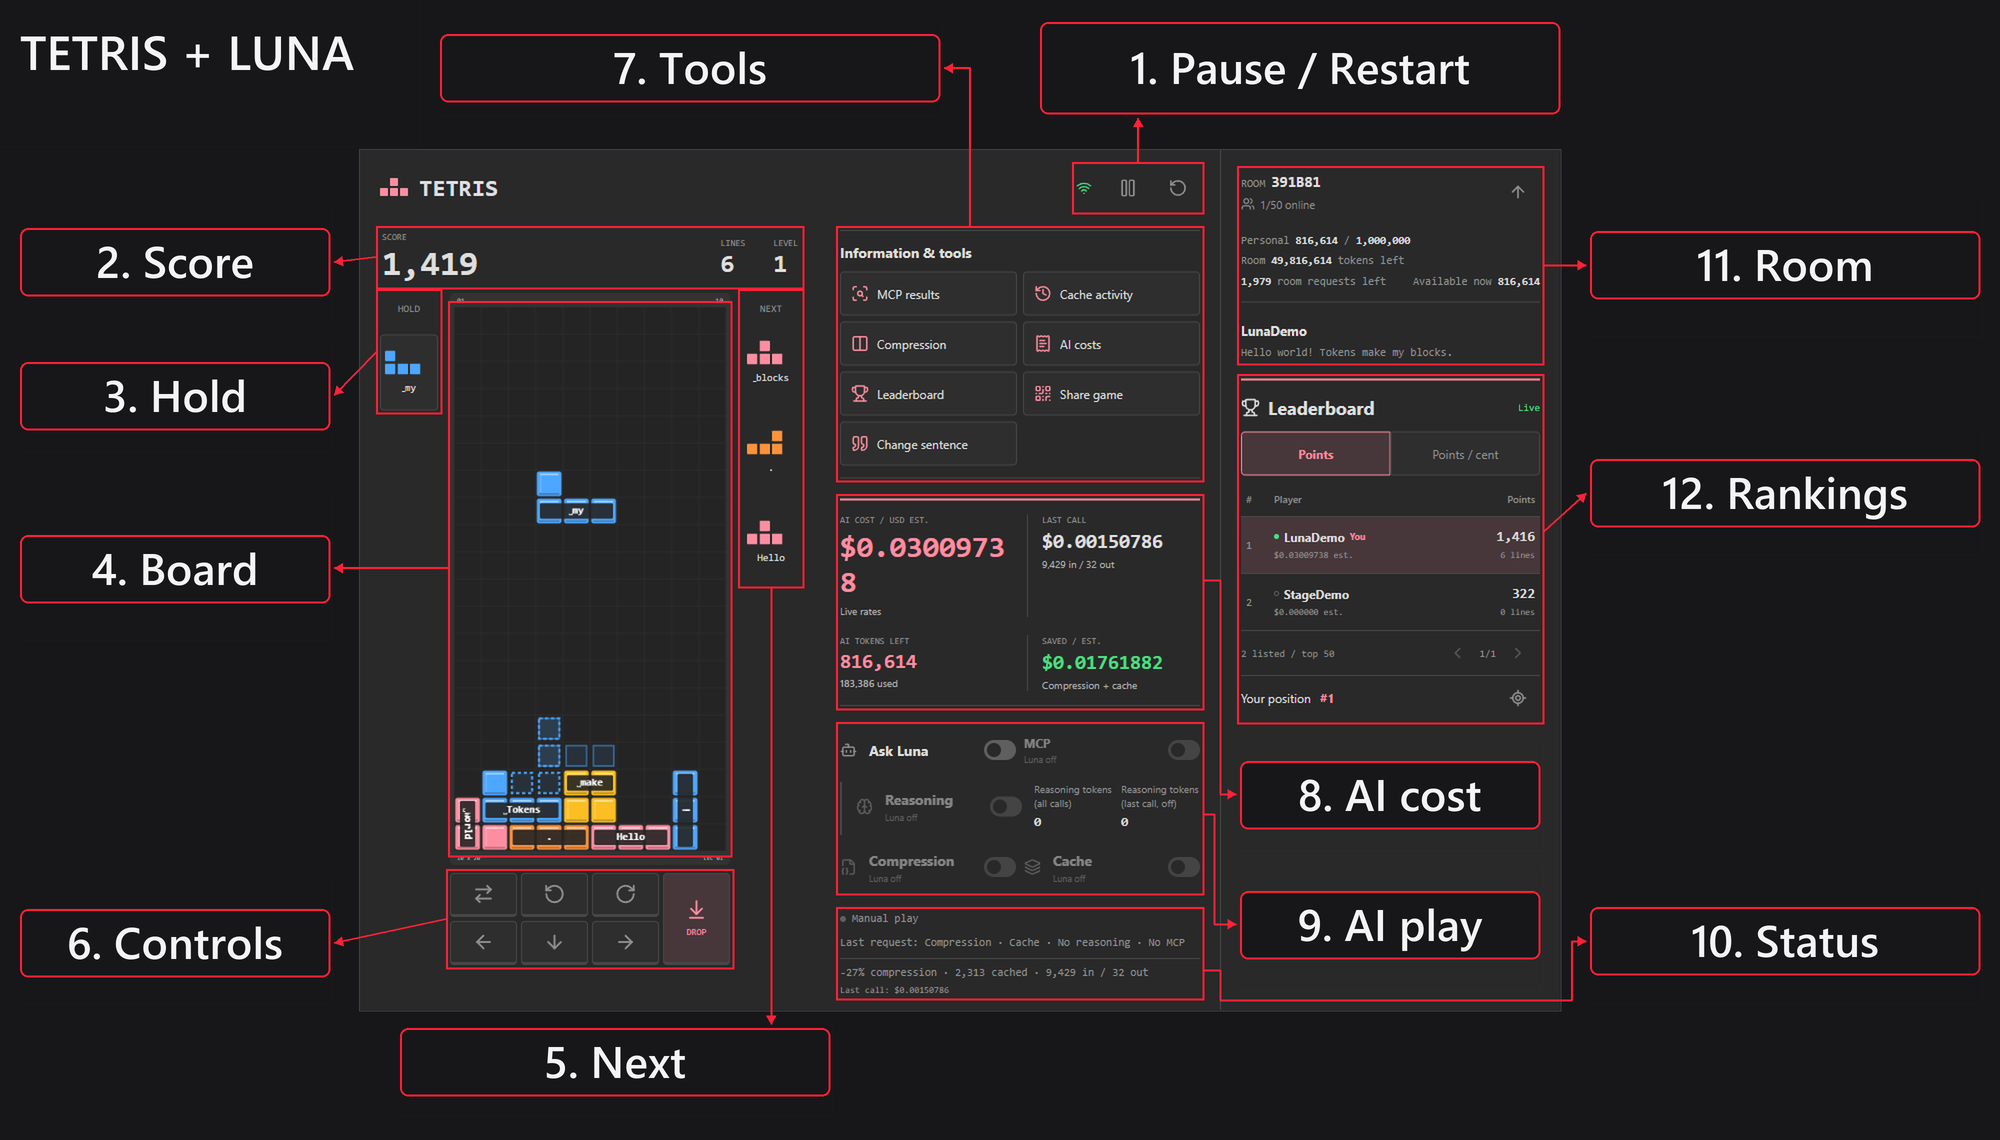
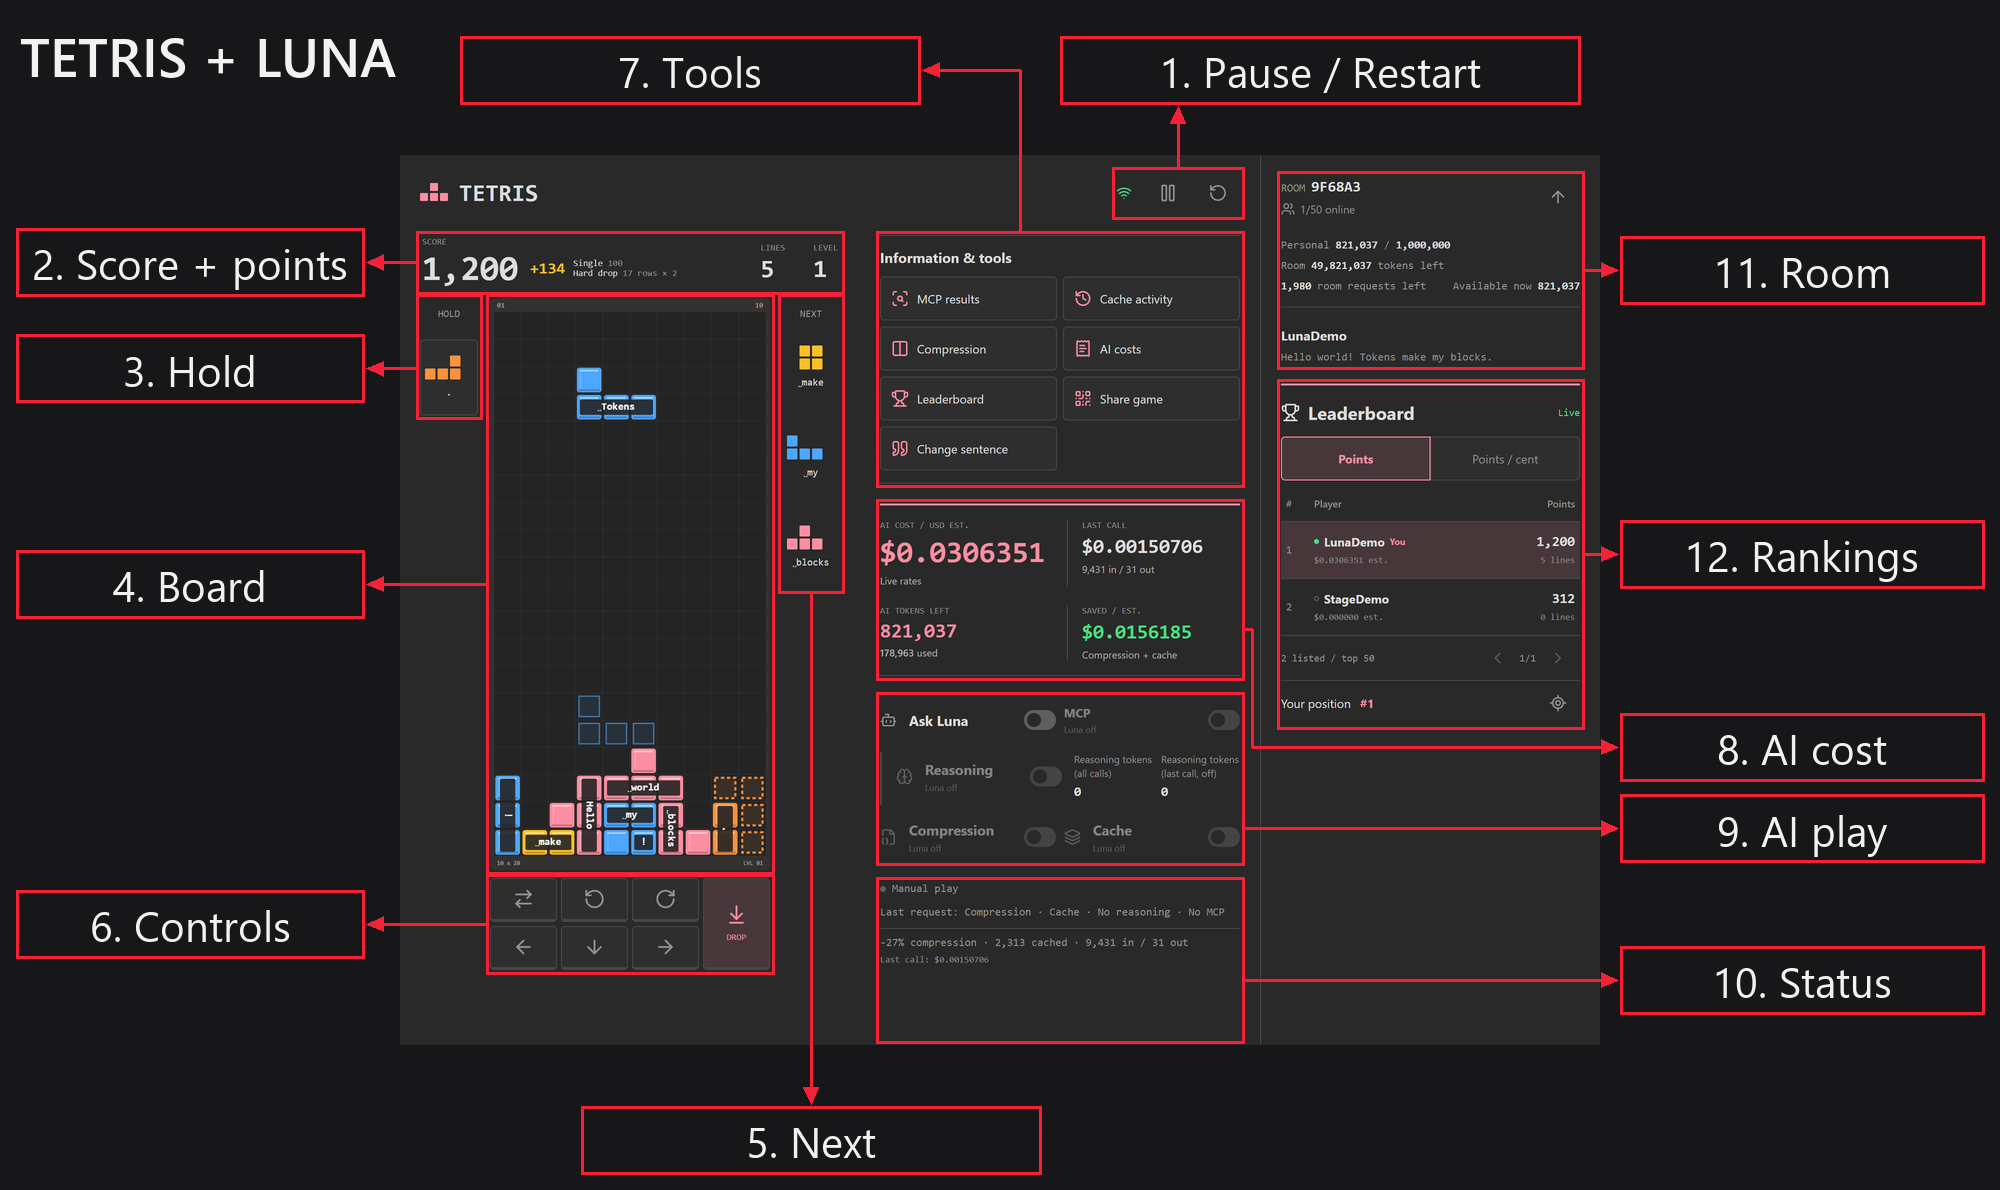
feat: show how each move's points were earned next to the score
The engine records a per-move breakdown (line clears, back-to-back, combo, perfect clear, hard and soft drops) whose parts sum to the points added. The score panel shows +points and the breakdown; README screenshots updated.

diff --git a/shared/game.ts b/shared/game.ts
@@ -35,18 +35,40 @@ export interface ClearEvent {
   frame: number;
   rows: number[];
 }
+// One scored step of a move, e.g. { label: 'Single', detail: '100 × level 2', points: 200 }.
+export interface ScorePart { label: string; detail: string; points: number }
+// Points added since the previous piece locked; parts always sum to points.
+export interface MoveScore { id: number; frame: number; points: number; parts: ScorePart[] }
+
+const rowCount = (rows: number) => `${rows} ${rows === 1 ? 'row' : 'rows'}`;
+
+function clearName(lines: number, spin: Spin) {
+  const size = ['', 'single', 'double', 'triple', 'Tetris'][lines] ?? '';
+  if (spin === 'none') return size.charAt(0).toUpperCase() + size.slice(1);
+  return [spin === 'full' ? 'T-spin' : 'T-spin mini', size].filter(Boolean).join(' ');
+}
 
 export function scoreClear(lines: number, spin: Spin, level: number, previousCombo: number, previousBackToBack: boolean, perfect: boolean) {
   const difficult = lines === 4 || (spin !== 'none' && lines > 0);
   const combo = lines > 0 ? previousCombo + 1 : -1;
   const bases = spin === 'full' ? [400, 800, 1200, 1600] : spin === 'mini' ? [100, 200, 400] : [0, 100, 300, 500, 800];
-  let points = (bases[lines] ?? 0) * level;
+  const base = (bases[lines] ?? 0) * level;
+  let points = base;
   if (difficult && previousBackToBack) points *= 1.5;
-  points += Math.max(0, combo) * 50 * level;
-  if (perfect && lines > 0) points += (lines === 4 && previousBackToBack ? 3200 : [0, 800, 1200, 1800, 2000][lines]) * level;
+  const comboPoints = Math.max(0, combo) * 50 * level;
+  points += comboPoints;
+  const perfectBase = perfect && lines > 0 ? (lines === 4 && previousBackToBack ? 3200 : [0, 800, 1200, 1800, 2000][lines]) : 0;
+  points += perfectBase * level;
   const backToBack = lines === 0 ? previousBackToBack : difficult;
   const label = perfect && lines > 0 ? 'PERFECT CLEAR' : spin === 'full' ? 'T-SPIN' : spin === 'mini' ? 'T-SPIN MINI' : ['', 'SINGLE', 'DOUBLE', 'TRIPLE', 'TETRIS'][lines];
-  return { points, combo, backToBack, label };
+  const parts: ScorePart[] = [];
+  // The level multiplier is only shown when it changes the result.
+  const times = (value: number) => level > 1 ? `${value} × level ${level}` : `${value}`;
+  if (base > 0) parts.push({ label: clearName(lines, spin), detail: times(bases[lines]), points: base });
+  if (base > 0 && difficult && previousBackToBack) parts.push({ label: 'Back-to-back', detail: `50% of ${base}`, points: base / 2 });
+  if (comboPoints > 0) parts.push({ label: `Combo ${combo}`, detail: `${combo} × ${times(50)}`, points: comboPoints });
+  if (perfectBase > 0) parts.push({ label: 'Perfect clear', detail: times(perfectBase), points: perfectBase * level });
+  return { points, combo, backToBack, label, parts };
 }
 
 export class Game {
@@ -75,6 +97,10 @@ export class Game {
   gravity = 0;
   lastRotation: number | null = null;
   lastClear: ClearEvent | null = null;
+  lastMove: MoveScore | null = null;
+  moves = 0;
+  softDropRows = 0;
+  hardDropRows = 0;
   events: InputEvent[] = [];
 
   constructor(seed: string, tokens: PieceToken[] = []) {
@@ -119,6 +145,7 @@ export class Game {
       const landed = ghostPiece(this.well, this.active);
       const distance = landed.y - this.active.y;
       this.score += distance * 2;
+      this.hardDropRows += distance;
       if (distance > 0) this.lastRotation = null;
       this.active = landed;
       this.finishPiece();
@@ -134,7 +161,7 @@ export class Game {
       this.lastRotation = kicks.findIndex(([horizontal, vertical]) => moved.x - this.active.x === horizontal && moved.y - this.active.y === vertical);
     } else {
       this.lastRotation = null;
-      if (action === 'softDrop') this.score += 1;
+      if (action === 'softDrop') { this.score += 1; this.softDropRows += 1; }
     }
     this.active = moved;
     if (action !== 'softDrop') this.lock.onManipulate();
@@ -157,22 +184,34 @@ export class Game {
     return (fronts.every(index => corners[index]) || this.lastRotation === 4) ? 'full' : 'mini';
   }
 
+  // Records what the piece that just locked added to the score, including drop points earned before a hold.
+  recordMove(clear: ScorePart[]) {
+    const parts = [...clear];
+    if (this.hardDropRows > 0) parts.push({ label: 'Hard drop', detail: `${rowCount(this.hardDropRows)} × 2`, points: this.hardDropRows * 2 });
+    if (this.softDropRows > 0) parts.push({ label: 'Soft drop', detail: `${rowCount(this.softDropRows)} × 1`, points: this.softDropRows });
+    this.moves += 1;
+    this.lastMove = { id: this.moves, frame: this.frame, points: parts.reduce((sum, part) => sum + part.points, 0), parts };
+    this.hardDropRows = 0;
+    this.softDropRows = 0;
+  }
+
   finishPiece() {
-    if (!canPlace(this.well, this.active)) { this.status = 'over'; return; }
+    if (!canPlace(this.well, this.active)) { this.status = 'over'; this.recordMove([]); return; }
     const spin = this.detectSpin();
     const cells = pieceCells(this.active);
     lockPiece(this.well, this.active);
     if (this.tokens.length) for (const cell of cells) this.tokenWell.set(cell.x, cell.y, this.activeTokenIndex);
     this.pieces += 1;
-    if (cells.every(cell => cell.y < HIDDEN_ROWS)) { this.status = 'over'; return; }
+    if (cells.every(cell => cell.y < HIDDEN_ROWS)) { this.status = 'over'; this.recordMove([]); return; }
     const rows = fullRows(this.well);
     clearRows(this.well, rows);
     clearRows(this.tokenWell, rows);
-    const result = scoreClear(rows.length, rows.length === 3 && spin === 'mini' ? 'full' : spin, this.level, this.combo, this.backToBack, this.well.toArray().every(cell => cell === null));
+    const { parts, ...result } = scoreClear(rows.length, rows.length === 3 && spin === 'mini' ? 'full' : spin, this.level, this.combo, this.backToBack, this.well.toArray().every(cell => cell === null));
     this.score += result.points;
     this.combo = result.combo;
     this.backToBack = result.backToBack;
     if (result.points > 0) this.lastClear = { ...result, lines: rows.length, frame: this.frame, rows };
+    this.recordMove(parts);
     this.lines += rows.length;
     this.level = 1 + Math.floor(this.lines / 10);
     this.active = this.takePiece();
@@ -224,7 +263,7 @@ export class Game {
       nextTokens: this.queue.peek().map((_piece, index) => this.tokenAt(this.tokensTaken + index)),
       piece: this.piece, pieceId: this.pieceId, hold: this.hold, canHold: !this.usedHold,
       next: this.queue.peek(), score: this.score, lines: this.lines, level: this.level,
-      pieces: this.pieces, status: this.status, frame: this.frame, lastClear: this.lastClear,
+      pieces: this.pieces, status: this.status, frame: this.frame, lastClear: this.lastClear, lastMove: this.lastMove,
       lockRemaining: this.lock.snapshot.remainingFrames,
     };
   }

diff --git a/tests/game.test.ts b/tests/game.test.ts
@@ -1,5 +1,6 @@
 import test from 'node:test';
 import assert from 'node:assert/strict';
+import seedrandom from 'seedrandom';
 import { canPlace, ghostPiece, rotateWithKicks, kicksFor, spawnTetromino } from 'miaoda-game-fallblock-core';
 import { Game, HEIGHT, WIDTH, placementsFor, refreshPlacement, scoreClear, tokenLabel, tokenShape } from '../shared/game.ts';
 import type { Cell } from '../shared/game.ts';
@@ -133,6 +134,77 @@ test('four full rows clear rigidly and score a Tetris plus perfect clear and dro
   assert.equal(game.lines, 4);
   assert.equal(game.score, 800 + 2000 + distance * 2);
   assert.ok(game.well.toArray().every(cell => cell === null));
+  assert.deepEqual(game.lastMove, {
+    id: 1, frame: 0, points: game.score,
+    parts: [
+      { label: 'Tetris', detail: '800', points: 800 },
+      { label: 'Perfect clear', detail: '2000', points: 2000 },
+      { label: 'Hard drop', detail: `${distance} rows × 2`, points: distance * 2 },
+    ],
+  });
+});
+
+test('score parts always add up to the clear points', () => {
+  for (const spin of ['none', 'mini', 'full'] as const) {
+    for (let lines = 0; lines <= (spin === 'none' ? 4 : spin === 'mini' ? 2 : 3); lines += 1) {
+      for (const [level, combo, backToBack, perfect] of [[1, -1, false, false], [3, 2, true, false], [2, 0, true, true], [5, 4, false, true]] as const) {
+        const result = scoreClear(lines, spin, level, combo, backToBack, perfect);
+        assert.equal(result.parts.reduce((sum, part) => sum + part.points, 0), result.points, `${spin} ${lines} lines at level ${level}`);
+      }
+    }
+  }
+  assert.deepEqual(scoreClear(4, 'none', 2, 1, true, false).parts, [
+    { label: 'Tetris', detail: '800 × level 2', points: 1600 },
+    { label: 'Back-to-back', detail: '50% of 1600', points: 800 },
+    { label: 'Combo 2', detail: '2 × 50 × level 2', points: 200 },
+  ]);
+  assert.deepEqual(scoreClear(2, 'full', 1, -1, false, false).parts, [{ label: 'T-spin double', detail: '1200', points: 1200 }]);
+  assert.deepEqual(scoreClear(0, 'mini', 1, -1, false, false).parts, [{ label: 'T-spin mini', detail: '100', points: 100 }]);
+  assert.deepEqual(scoreClear(1, 'none', 1, 2, false, false).parts, [{ label: 'Single', detail: '100', points: 100 }, { label: 'Combo 3', detail: '3 × 50', points: 150 }]);
+});
+
+test('each locked piece reports exactly the points it added, including drops before a hold', () => {
+  const game = new Game('move-score');
+  game.act('softDrop');
+  game.act('softDrop');
+  game.act('hold');
+  game.act('softDrop');
+  const before = game.score;
+  game.act('hardDrop');
+  assert.equal(game.lastMove!.points, game.score);
+  assert.deepEqual(game.lastMove!.parts.map(part => part.label), ['Hard drop', 'Soft drop']);
+  assert.equal(game.lastMove!.parts[1].detail, '3 rows × 1');
+  assert.equal(game.score - before, game.lastMove!.parts[0].points);
+
+  const played = new Game('move-score-play');
+  const random = seedrandom('move-score-play');
+  let scoreAtLock = 0;
+  let moves = 0;
+  let clears = 0;
+  const check = () => {
+    if (played.moves === moves) return;
+    assert.equal(played.moves, moves + 1);
+    assert.equal(played.lastMove!.points, played.score - scoreAtLock);
+    assert.equal(played.lastMove!.parts.reduce((sum, part) => sum + part.points, 0), played.lastMove!.points);
+    if (played.lastMove!.parts.some(part => !part.label.endsWith('drop'))) clears += 1;
+    scoreAtLock = played.score;
+    moves = played.moves;
+  };
+  while (played.moves < 120 && played.status !== 'over') {
+    const choices = placementsFor(played).filter(placement => !placement.gameOver);
+    if (!choices.length) break;
+    const value = (placement: typeof choices[number]) => placement.clearedLines * 8 - placement.holes * 7 - placement.aggregateHeight * 0.5 - placement.bumpiness * 0.3;
+    const best = choices.reduce((winner, placement) => value(placement) > value(winner) ? placement : winner);
+    for (const action of best.path.slice(0, -1)) { played.act(action); check(); }
+    const finish = random();
+    if (finish < 0.5) played.act('hardDrop');
+    else if (finish < 0.8) { for (let row = 0; row < 3 && played.act('softDrop'); row += 1) check(); played.act('hardDrop'); }
+    else for (let frame = 0; frame < 3000 && played.moves === moves; frame += 1) played.advanceTo(played.frame + 1);
+    check();
+  }
+  assert.equal(played.moves, 120);
+  assert.ok(clears > 10, `${clears} scoring clears`);
+  assert.deepEqual(Game.restore(played.replay()).view(), played.view());
 });
 
 test('normal clears, spins, combos and back-to-back use guideline score values', () => {

diff --git a/web/src/App.tsx b/web/src/App.tsx
@@ -3,6 +3,7 @@ import { Bot, Brain, Columns2, FileJson2, History, Layers3, Pause, Play, Plug, Q
 import type { LucideIcon } from 'lucide-react';
 import { costForUsage, reportedTokenBalance } from '../../shared/protocol.ts';
 import type { Insight, McpLookaheadResult, TokenRates } from '../../shared/protocol.ts';
+import type { MoveScore } from '../../shared/game.ts';
 import { GameBoard, GameControls, PiecePreview } from './GameBoard.tsx';
 import { GameSetup, RoomMaintenance, RoomPanel, RoomShare } from './RoomPanel.tsx';
 import { formatMoney } from './format.ts';
@@ -14,6 +15,13 @@ const number = (value: number) => value.toLocaleString();
 const signedMoney = (value: number | null) => value === null ? '--' : `${value < 0 ? '-' : value > 0 ? '+' : ''}${formatMoney(Math.abs(value))}`;
 const cacheLabel = (insight: Insight) => insight.usage.cached > 0 ? 'Hit' : insight.usage.cacheWrites > 0 ? 'Miss / written' : insight.cacheEnabled ? 'Miss' : 'Off';
 const cacheEffect = (insight: Insight, rates: TokenRates | undefined) => rates ? (insight.usage.cached * (rates.cachedInput - rates.input) + insight.usage.cacheWrites * (rates.cacheWrite - rates.input)) / 1000000 : null;
+
+function ScoreGain({ move }: { move: MoveScore }) {
+  return <div className="score-gain" data-testid="score-gain" title={move.parts.map(part => `${part.label}: ${part.detail} = ${number(part.points)}`).join('\n')}>
+    <b>+{number(move.points)}</b>
+    <ul>{move.parts.map(part => <li key={part.label}><span>{part.label}</span> {part.detail}</li>)}</ul>
+  </div>;
+}
 
 function CacheActivity({ records, selected, rates, pending, unknown, onSelect }: {
   records: RequestRecord[]; selected: Insight; rates: TokenRates | undefined;
@@ -243,7 +251,7 @@ export default function App() {
 
     <section className="game-stage" aria-label="Tetris game">
       <div className="scoreboard">
-        <div className="main-score"><span>SCORE</span><strong data-testid="game-score">{number(game.view.score)}</strong></div>
+        <div className="main-score"><span>SCORE</span><div className="score-row"><strong data-testid="game-score">{number(game.view.score)}</strong>{game.joined && game.view.lastMove && game.view.lastMove.points > 0 && <ScoreGain key={game.view.lastMove.id} move={game.view.lastMove} />}</div></div>
         <div><span>LINES</span><strong data-testid="game-lines">{number(game.view.lines)}</strong></div>
         <div><span>LEVEL</span><strong data-testid="game-level">{number(game.view.level)}</strong></div>
       </div>

diff --git a/web/src/App.css b/web/src/App.css
@@ -220,6 +220,14 @@ html:has(dialog:modal) { overflow: hidden; }
 .scoreboard strong { font: 700 25px var(--cp-mono); font-variant-numeric: tabular-nums; }
 .scoreboard .main-score { flex: 1; }
 .scoreboard .main-score strong { font-size: 35px; overflow-wrap: anywhere; }
+.score-row { display: flex; align-items: center; gap: 12px; min-width: 0; }
+.score-row > strong { flex: none; }
+.score-gain { display: flex; align-items: center; gap: 8px; min-width: 0; animation: score-gain .45s ease-out both; }
+.score-gain b { font: 700 16px var(--cp-mono); color: var(--cp-warning); white-space: nowrap; }
+.score-gain ul { display: grid; grid-template-rows: repeat(4, auto); grid-auto-flow: column; gap: 0 14px; min-width: 0; margin: 0; padding: 0; list-style: none; font: 9px/1.1 var(--cp-mono); color: var(--cp-text-muted); }
+.score-gain li { overflow: hidden; white-space: nowrap; text-overflow: ellipsis; }
+.scoreboard .score-gain li span { font: inherit; color: var(--cp-text); }
+@keyframes score-gain { 0% { opacity: 0; transform: translateY(6px) scale(.9); } 60% { opacity: 1; transform: translateY(-1px) scale(1.04); } 100% { opacity: 1; transform: none; } }
 .play-well { display: grid; grid-template-columns: 58px minmax(0, 1fr) 58px; gap: 12px; align-items: start; min-height: 0; container-type: size; }
 .board-column { width: min(100%, max(100px, calc((100cqh - 112px) / 2))); max-width: 330px; justify-self: center; }
 .board-shell { background: var(--cp-board-edge); border-radius: 5px; padding: 0 4px; }
@@ -433,6 +441,10 @@ html:has(dialog:modal) { overflow: hidden; }
   .scoreboard { gap: 24px; }
   .scoreboard .main-score strong { font-size: 32px; }
   .scoreboard strong { font-size: 22px; }
+  .score-row { gap: 8px; }
+  .score-gain { gap: 6px; }
+  .score-gain b { font-size: 14px; }
+  .score-gain ul { font-size: 8px; }
   .play-well { grid-template-columns: 44px minmax(0, 1fr) 44px; gap: 7px; }
   .piece-rail { gap: 15px; }
   .piece-rail > span { font-size: 8px; }

diff --git a/tests/ui.spec.ts b/tests/ui.spec.ts
@@ -1360,6 +1360,9 @@ test('classic Tetris joins by name with standard pieces, live rankings, and free
   await page.getByRole('button', { name: 'Pause game', exact: true }).click();
   await setup.waitForGame(game => game.status === 'paused' && game.pieces === 1);
   assert.ok(numeric(await page.getByTestId('game-score').textContent()) > 0);
+  const score = numeric(await page.getByTestId('game-score').textContent());
+  assert.equal(await page.getByTestId('score-gain').locator('b').innerText(), `+${score}`);
+  assert.equal(await page.getByTestId('score-gain').locator('li').innerText(), `Hard drop ${score / 2} rows × 2`);
   assert.equal(numeric(await page.getByTestId('ai-cost').textContent()), 0);
   assert.equal(numeric(await page.getByTestId('ai-tokens').textContent()), 0);
   assert.equal(setup.calls.length, 0);

diff --git a/README.md b/README.md
@@ -10,7 +10,11 @@ Tetris with sentence-generated pieces, optional GPT-5.6 Luna play, and shared le
 2. Choose **Sentence** for a repeating token-derived queue or **Classic** for shuffled seven-piece bags.
 3. Click **Join game**. Fill horizontal rows to clear them; the run ends when a piece cannot spawn or locks entirely above the board.
 
-[![Game screen with labeled board, controls, AI costs, room, and rankings.](docs/images/screen-guide.png)](docs/images/screen-guide.png)
+[![Game screen with labeled score and points, board, controls, AI costs, room, and rankings.](docs/images/screen-guide.png)](docs/images/screen-guide.png)
+
+After each piece locks, the score shows the points it added and how: line clears (× level from level 2), back-to-back, combos, perfect clears, and 2 points per hard-drop row or 1 per soft-drop row.
+
+<img src="docs/images/score-points.png" alt="Score panel: total score 1,200, then +134 for the last move, from a Single (100) and a hard drop of 17 rows × 2." width="560">
 
 **New game** resets the board, score, lines, and level, but keeps your best score and AI usage. Luna starts off.
 
